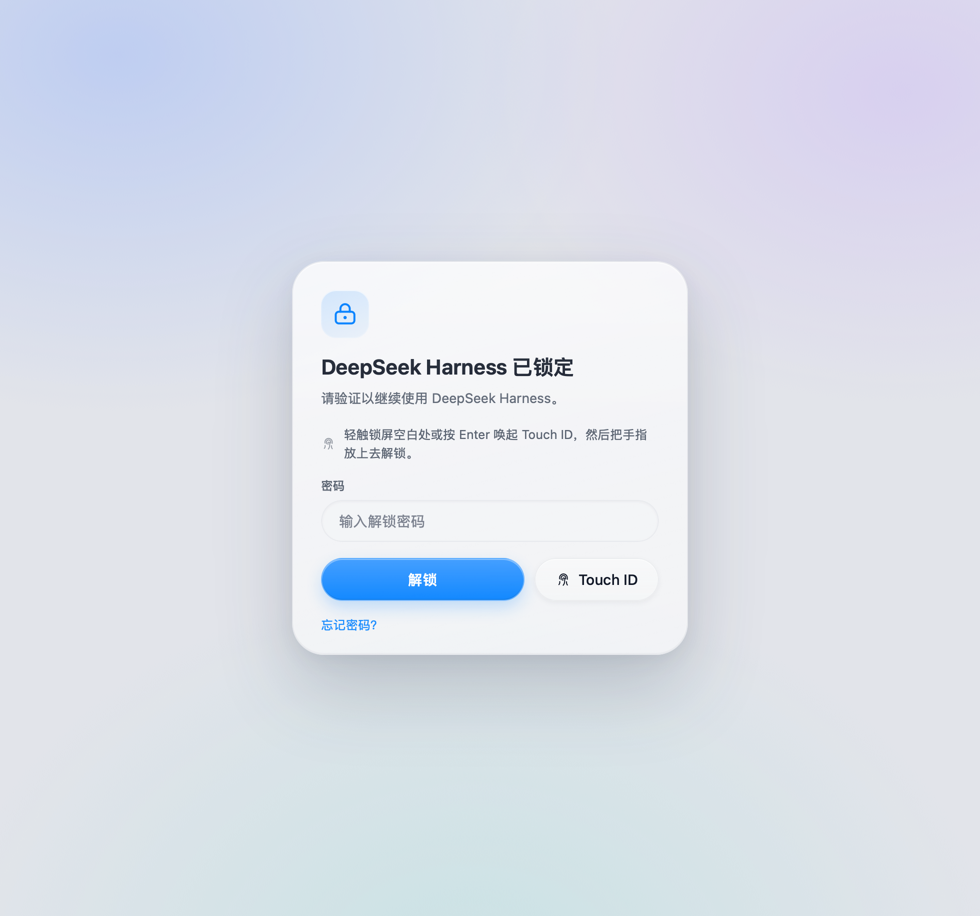
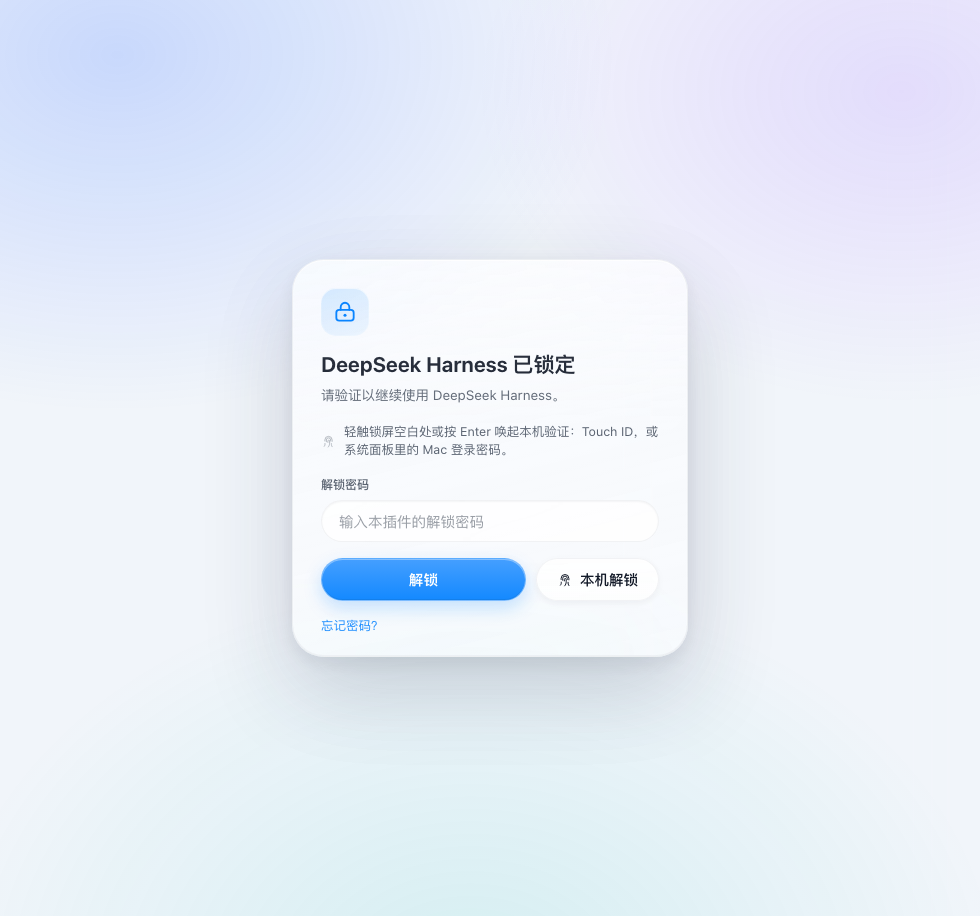
dsh-lock 0.1.7：本机指纹/密码解锁的文案与动画标题修正（显示内容 bug）
- 本机验证走 macOS 系统面板（deviceOwnerAuthentication），可能是 Touch ID 也可能是
  Mac 登录密码回退；插件无法区分，成功动画不再写「指纹验证通过」
- 成功动画：本机 →「本机解锁成功」+ 指纹/Mac 登录密码说明；插件密码 →「解锁密码通过」
- 解锁页：按钮改「本机解锁」，提示写明 Touch ID 或 Mac 登录密码；密码框区分「解锁密码」
- 设置页：「本机解锁」「修改解锁密码」与开关说明同步
- 面板 reason 与后端错误文案同步；README / 预览图更新；测试补充断言

diff --git a/client.js b/client.js
@@ -273,8 +273,12 @@ window.__ModuleLoader__.load({
     //#region unlock animations
 
     /**
-     * The brief success animation shown after a password or a Touch ID unlock,
-     * before the gate fades away.
+     * The brief success animation shown after the plugin password or a local
+     * device unlock, before the gate fades away.
+     *
+     * `biometric` is the local-authentication path: macOS decides inside the
+     * system sheet whether that was Touch ID or the Mac login password, so the
+     * copy must not claim it was a fingerprint — it says 本机解锁.
      * @param {object} props - `{ method: 'password'|'biometric' }`.
      */
     function SuccessView(props) {
@@ -294,8 +298,10 @@ window.__ModuleLoader__.load({
           h('svg', { key: 'check', className: 'dshl-successCheck', viewBox: '0 0 24 24', 'aria-hidden': 'true' },
             h('path', { d: 'M6.4 12.4l3.5 3.5 7.7-8.3' })),
         ]),
-        h('div', { key: 'title', className: 'dshl-successTitle' }, biometric ? '指纹验证通过' : '密码验证通过'),
-        h('div', { key: 'hint', className: 'dshl-successHint' }, '正在进入…'),
+        h('div', { key: 'title', className: 'dshl-successTitle' }, biometric ? '本机解锁成功' : '解锁密码通过'),
+        h('div', { key: 'hint', className: 'dshl-successHint' }, biometric
+          ? '已通过本机指纹或 Mac 登录密码验证，正在进入…'
+          : '正在进入…'),
       ])
     }
 
@@ -381,8 +387,8 @@ window.__ModuleLoader__.load({
           },
         }),
         props.status !== null && props.status.biometricAvailable === true
-          ? h('p', { key: 'bio', className: 'dshl-footnote dshl-footnoteTight' }, '检测到 Touch ID：设置完成后，轻触锁屏空白处或按 Enter 即可唤起系统验证（可在设置中关闭）。')
-          : h('p', { key: 'bio', className: 'dshl-footnote dshl-footnoteTight' }, '此 Mac 未检测到可用 Touch ID，请使用密码解锁。'),
+          ? h('p', { key: 'bio', className: 'dshl-footnote dshl-footnoteTight' }, '检测到本机指纹：设置完成后，轻触锁屏空白处或按 Enter 可唤起系统验证（Touch ID 或 Mac 登录密码，可在设置中关闭）。')
+          : h('p', { key: 'bio', className: 'dshl-footnote dshl-footnoteTight' }, '此 Mac 未检测到可用 Touch ID，请使用上面的解锁密码。'),
         h('button', {
           key: 'submit',
           type: 'button',
@@ -393,7 +399,7 @@ window.__ModuleLoader__.load({
       ])
     }
 
-    /** Password / Touch ID unlock. */
+    /** Plugin password / local-device unlock. */
     function UnlockForm(props) {
       const status = props.status
       const biometricReady = status !== null && status.biometricEnabled === true && status.biometricAvailable === true
@@ -402,17 +408,17 @@ window.__ModuleLoader__.load({
           ? h('p', { key: 'autoHint', className: 'dshl-autoHint' }, [
             h(FingerprintGlyph, { key: 'icon', size: 15 }),
             h('span', { key: 'text' }, props.biometricBusy === true
-              ? 'Touch ID 已唤起，把手指放上去即可解锁…'
-              : '轻触锁屏空白处或按 Enter 唤起 Touch ID，然后把手指放上去解锁。'),
+              ? '已唤起本机验证：用 Touch ID，或在系统面板里输入 Mac 登录密码…'
+              : '轻触锁屏空白处或按 Enter 唤起本机验证：Touch ID，或系统面板里的 Mac 登录密码。'),
           ])
           : null,
         h(PasswordField, {
           key: 'password',
-          label: '密码',
+          label: '解锁密码',
           value: props.password,
           autoFocus: true,
           autoComplete: 'current-password',
-          placeholder: '输入解锁密码',
+          placeholder: '输入本插件的解锁密码',
           onChange: props.onPassword,
           onKeyDown: (event) => {
             if (event.key === 'Enter') props.onSubmit()
@@ -433,12 +439,12 @@ window.__ModuleLoader__.load({
               className: 'dshl-secondary',
               disabled: props.busy === true || props.biometricBusy === true,
               onClick: props.onBiometric,
-            }, [h(FingerprintGlyph, { key: 'icon' }), props.biometricBusy === true ? '等待验证…' : 'Touch ID'])
+            }, [h(FingerprintGlyph, { key: 'icon' }), props.biometricBusy === true ? '等待验证…' : '本机解锁'])
             : null,
         ]),
         biometricReady
           ? null
-          : h('p', { key: 'biohint', className: 'dshl-footnote' }, '可在 设置 → 安全锁定 中启用 Touch ID。'),
+          : h('p', { key: 'biohint', className: 'dshl-footnote' }, '可在 设置 → 安全锁定 中启用本机解锁（Touch ID / Mac 登录密码）。'),
         h('button', {
           key: 'helpToggle',
           type: 'button',
@@ -718,9 +724,9 @@ window.__ModuleLoader__.load({
             h('span', { key: 'v2' }, status === null ? '读取中…' : status.locked ? '已锁定' : '已解锁'),
             h('span', { key: 'k3', className: 'dshl-key' }, '上次验证'),
             h('span', { key: 'v3' }, status === null ? '—' : formatTime(status.lastUnlockAt)),
-            h('span', { key: 'k4', className: 'dshl-key' }, '密码'),
+            h('span', { key: 'k4', className: 'dshl-key' }, '解锁密码'),
             h('span', { key: 'v4' }, status !== null && status.passwordIsDefault ? '默认密码 4396（建议修改）' : '已自定义'),
-            h('span', { key: 'k5', className: 'dshl-key' }, 'Touch ID'),
+            h('span', { key: 'k5', className: 'dshl-key' }, '本机解锁'),
             h('span', { key: 'v5' }, status === null
               ? '读取中…'
               : unavailable
@@ -738,7 +744,7 @@ window.__ModuleLoader__.load({
         ]),
 
         h('section', { key: 'password', className: 'dshl-section' }, [
-          h('h2', { key: 'title', className: 'dshl-sectionTitle' }, '修改密码'),
+          h('h2', { key: 'title', className: 'dshl-sectionTitle' }, '修改解锁密码'),
           h(PasswordField, {
             key: 'current',
             label: '当前密码',
@@ -772,7 +778,7 @@ window.__ModuleLoader__.load({
         ]),
 
         h('section', { key: 'biometric', className: 'dshl-section' }, [
-          h('h2', { key: 'title', className: 'dshl-sectionTitle' }, 'Touch ID'),
+          h('h2', { key: 'title', className: 'dshl-sectionTitle' }, '本机解锁'),
           h('label', { key: 'toggle', className: 'dshl-check' }, [
             h('input', {
               key: 'input',
@@ -783,7 +789,7 @@ window.__ModuleLoader__.load({
             }),
             h('span', { key: 'text' }, unavailable
               ? '此 Mac 不可用（需要支持并已录入 Touch ID）'
-              : '允许使用 Touch ID 解锁（认证失败时可回退到系统登录密码）'),
+              : '允许使用本机指纹解锁；系统面板也接受 Mac 登录密码（不是上面的解锁密码）'),
           ]),
         ]),
 

diff --git a/index.js b/index.js
@@ -472,7 +472,7 @@ export class LockStore {
   setBiometric(enabled) {
     if (!this.isUnlocked()) throw new LockError(401, '当前会话未解锁')
     if (enabled === true && this.biometricAvailable !== true) {
-      throw new LockError(400, '当前 Mac 不支持 Touch ID 或尚未录入指纹')
+      throw new LockError(400, '当前 Mac 不支持本机指纹（Touch ID）或尚未录入指纹')
     }
     this.state.biometric = enabled === true
     this.state.updatedAt = this.now()
@@ -670,14 +670,14 @@ export function apply(ctx) {
     handler: mutation('POST', async (req, res) => {
       const available = await store.ensureBiometric()
       if (!store.isConfigured()) throw new LockError(409, '尚未设置解锁方式')
-      if (!store.biometricEnabled()) throw new LockError(400, '未启用 Touch ID')
-      if (!available) throw new LockError(400, '当前 Mac 不支持 Touch ID 或尚未录入指纹')
+      if (!store.biometricEnabled()) throw new LockError(400, '未启用本机解锁')
+      if (!available) throw new LockError(400, '当前 Mac 不支持本机指纹（Touch ID）或尚未录入指纹')
       if (store.biometricInFlight) throw new LockError(429, '正在等待系统验证')
       const waitMs = reservePrompt()
       if (waitMs > 0) throw new LockError(429, '请稍后再试', { retryAfterMs: waitMs })
       store.biometricInFlight = true
       try {
-        const result = await runHelper(['--auth', '解锁 DeepSeek Harness'], 120_000)
+        const result = await runHelper(['--auth', '解锁 DeepSeek Harness（本机指纹 / Mac 登录密码）'], 120_000)
         if (result.code !== 0) {
           const message = result.code === 2
             ? '系统认证不可用'
@@ -722,7 +722,7 @@ export function apply(ctx) {
     handler: mutation('POST', async (req, res) => {
       const available = await store.ensureBiometric()
       const body = await readJson(req)
-      if (body.enabled === true && !available) throw new LockError(400, '当前 Mac 不支持 Touch ID 或尚未录入指纹')
+      if (body.enabled === true && !available) throw new LockError(400, '当前 Mac 不支持本机指纹（Touch ID）或尚未录入指纹')
       store.setBiometric(body.enabled === true)
       sendJson(res, 200, { ok: true, status: status() })
     }),

diff --git a/README.md b/README.md
@@ -1,9 +1,9 @@
-# dsh-lock · DSH 锁屏 / Touch ID 验证
+# dsh-lock · DSH 锁屏 / 本机指纹·密码解锁
 
 [![test](https://github.com/SeyanaA/dsh-lock/actions/workflows/test.yml/badge.svg)](https://github.com/SeyanaA/dsh-lock/actions/workflows/test.yml)
 [![release](https://img.shields.io/github/v/release/SeyanaA/dsh-lock)](https://github.com/SeyanaA/dsh-lock/releases)
 
-> 首个公开版本 **v0.1.6**（macOS 26 Liquid Glass 风格）。
+> 最新版本 **v0.1.7**（macOS 26 Liquid Glass 风格）。
 > 下载：[Releases](https://github.com/SeyanaA/dsh-lock/releases) · 预览：[`docs/preview-lock.png`](./docs/preview-lock.png)
 
 ![锁屏预览](./docs/preview-lock.png)
@@ -11,42 +11,46 @@
 给 [DeepSeek Harness](https://github.com/deepseek-ai) Desktop 用的**本地锁屏插件**（macOS，
 建议 MacBook 且支持 Touch ID）：
 
-- **每次启动 DSH**：需要重新验证（密码或 Touch ID）；
+- **每次启动 DSH**：需要重新验证（插件解锁密码，或**本机指纹 / Mac 登录密码**）；
 - **48 小时未验证**：下一次打开 / 状态轮询时重新锁定；
 - **首次访问**：强制设置解锁密码（**至少 4 位，内容不限**，任何字符都可以）；
-- **不自动弹指纹**：遵守 macOS 安全惯例，锁屏出现时**不会主动弹出**系统验证面板；你只要
-  **轻触锁屏空白处 / 按一次 Enter / 点一下 Touch ID**，系统面板才会被唤起，然后把手指放上去
-  即解锁（系统面板也允许回退到 Mac 登录密码）；
-  > 说明：macOS 不向第三方应用开放“后台监听 Touch ID 传感器”的能力，指纹验证必须通过系统
-  > 面板完成，这是 Apple 的安全设计；所以无法做到“手指一放就检测、完全零交互”。
+- **本机指纹 / 密码解锁**：点「本机解锁」或轻触锁屏空白处 / 按一次 Enter 后，由 **macOS
+  系统面板**完成验证——可以放手指用 **Touch ID**，也可以直接输入 **Mac 登录密码**回退。
+  > 这是**本机（macOS 账户）验证**，不是插件自己的解锁密码；两者互相独立。因为系统面板里
+  > 究竟用了指纹还是 Mac 密码，插件无法得知，所以按钮、成功动画与提示统一标注为
+  > **「本机解锁」**，不会声称「指纹验证通过」。
+  > 另外 macOS 不向第三方应用开放“后台监听 Touch ID 传感器”的能力，验证必须经系统面板
+  > 完成，这是 Apple 的安全设计；所以无法做到“手指一放就检测、完全零交互”。
 - **液态玻璃（Liquid Glass）视觉**：按 Apple HIG “Materials”与 macOS 26 控制层规范重做——
   胶囊形输入框与按钮（参考 macOS 搜索框）、半透明玻璃材质 + 背景模糊/饱和度增强、
   细高光边与柔和内阴影、仅主操作使用强调色（系统蓝 #0A84FF）、深浅色主题自适应；
   预览图见 [`docs/preview-lock.png`](./docs/preview-lock.png)。
-- **解锁动画**：指纹解锁 = 绿色柔光 + 指纹淡出 + 对勾描边动画；密码解锁 = 蓝色柔光 + 锁扣
-  弹开 + 对勾描边动画，随后玻璃面板淡出；
+- **解锁动画**：**本机解锁**（指纹或 Mac 登录密码）= 绿色柔光 + 指纹淡出 + 对勾描边，
+  文案为「本机解锁成功」；**插件解锁密码** = 蓝色柔光 + 锁扣弹开 + 对勾描边，文案为
+  「解锁密码通过」；随后玻璃面板淡出；
 - **忘记密码**：终端执行一条命令，密码恢复为默认密码 **4396**，重新打开 DSH 输入 4396
   解锁，再到设置里修改；
 - **右上角一键锁定**：会话头部右侧工具区新增锁形按钮，点击立即锁定并呼出锁屏；
-- **配置入口**：`设置 → 安全锁定`（修改密码、开关 Touch ID、立即锁定、查看重置命令）。
+- **配置入口**：`设置 → 安全锁定`（修改解锁密码、开关本机解锁、立即锁定、查看重置命令）。
 
 数据全部在本机：密码只以 scrypt 哈希形式保存在 `~/.dsh/dsh-lock/state.json`（权限 600），
 不读取任何会话内容，不发起网络请求。
 
 > A local lock screen for DeepSeek Harness Desktop on macOS: re-authenticate after every
-> restart or 48 hours, with Touch ID via LocalAuthentication and a 4+ character password
-> fallback. Settings live under Settings → 安全锁定.
+> restart or 48 hours with a 4+ character plugin password or a **local device unlock**
+> (Touch ID *or* the Mac login password, via LocalAuthentication — labelled 本机解锁 in the
+> UI). Settings live under Settings → 安全锁定.
 
 ---
 
 ## 环境要求
 
-- **macOS**（在 macOS 27 / Apple Silicon 上验证），MacBook 且已录入 Touch ID 才能使用指纹解锁；
-  没有 Touch ID 也可以只用密码；
+- **macOS**（在 macOS 27 / Apple Silicon 上验证）；录入 Touch ID 的 MacBook 可以指纹解锁，
+  系统面板也接受 Mac 登录密码；没有 Touch ID 的 Mac 可以只用插件解锁密码；
 - **DeepSeek Harness Desktop ≥ 0.2.0-rc.1**；
-- Touch ID 由插件自带的原生小助手（`bin/dsh-auth-helper`，Swift + LocalAuthentication）实现，
-  预编译为 arm64；Intel Mac 可执行 `scripts/build-helper.sh` 重新编译（需要 Xcode
-  Command Line Tools）。
+- 本机解锁由插件自带的原生小助手（`bin/dsh-auth-helper`，Swift + LocalAuthentication，
+  `deviceOwnerAuthentication` 策略）实现，预编译为 arm64；Intel Mac 可执行
+  `scripts/build-helper.sh` 重新编译（需要 Xcode Command Line Tools）。
 
 ## 安装
 
@@ -78,18 +82,19 @@
 
 ### 首次访问
 
-安装并重新打开 DSH 后，界面会被锁屏覆盖：**设置解锁密码**（至少 4 位，内容不限）。
-如果这台 Mac 支持并已录入 Touch ID，插件会**自动启用**（可在 设置 → 安全锁定 中关闭），
-设置完成后即解锁。
+安装并重新打开 DSH 后，界面会被锁屏覆盖：**设置解锁密码**（至少 4 位，内容不限，这是
+插件自己的解锁密码，与 Mac 登录密码无关）。如果这台 Mac 支持并已录入 Touch ID，插件会
+**自动启用本机解锁**（可在 设置 → 安全锁定 中关闭），设置完成后即解锁。
 
 ### 日常解锁
 
 锁屏出现后（不会自己弹任何窗口）：
 
-- **轻触锁屏空白处**，或**按一次 Enter**，或点一下 **Touch ID** → 系统 Touch ID 面板出现，
-  把手指放上去即解锁（无需再点按钮）；
-- 也可以直接输入密码 + 回车解锁；
-- 如果取消了指纹面板，可以再次轻触/按 Enter/点 Touch ID 重新唤起，或改用密码。
+- 轻触锁屏空白处，或按一次 Enter，或点一下 **「本机解锁」** → macOS 系统验证面板出现；
+  把手指放上去用 **Touch ID** 即解锁，也可以在面板里选择输入 **Mac 登录密码**（这**不是**
+  插件的解锁密码）；
+- 也可以直接在输入框里填**插件解锁密码** + 回车解锁；
+- 如果取消了系统面板，可以再次轻触 / 按 Enter / 点「本机解锁」重新唤起，或改用解锁密码。
 
 锁定触发条件：
 
@@ -102,7 +107,8 @@
 ### 一键锁定
 
 DSH 会话头部右上角有一个锁形按钮（在模型/搜索等工具的最右侧）：点击它会立即锁定，
-锁屏随即覆盖界面，并自动唤起 Touch ID。也可以从 `设置 → 安全锁定 → 立即锁定` 锁定。
+锁屏随即覆盖界面；随后轻触锁屏 / 按 Enter / 点「本机解锁」唤起系统验证。也可以从
+`设置 → 安全锁定 → 立即锁定` 锁定。
 
 ### 忘记密码（强制恢复默认密码 4396）
 
@@ -124,9 +130,9 @@ DSH 会话头部右上角有一个锁形按钮（在模型/搜索等工具的最
 
 `设置 → 安全锁定`：
 
-- 查看锁定规则、当前会话状态、上次验证时间、密码是否为默认密码、Touch ID 状态；
-- 修改密码（当前密码 + 新密码 ≥ 4 位）；
-- 开关 Touch ID（需要当前会话已解锁，且本机可用）；
+- 查看锁定规则、当前会话状态、上次验证时间、解锁密码是否为默认密码、本机解锁状态；
+- 修改解锁密码（当前密码 + 新密码 ≥ 4 位）；
+- 开关本机解锁（指纹 / Mac 登录密码；需要当前会话已解锁，且本机可用）；
 - **立即锁定**；
 - **忘记密码** 的重置命令。
 
@@ -145,16 +151,19 @@ $ ~/.dsh/local-plugins/dsh-lock/bin/reset-password
 - **一直显示“正在读取锁定状态”**：说明插件宿主没有加载。重启 DSH；若仍不行，让 Agent
   移除 `dsh-lock` bundle（或手动从 profile 删除）后重启。
 - **被锁住但暂时不想设置密码**：在终端执行重置命令（见上），然后输入默认密码 **4396**。
-- **Touch ID 点了没反应**：确认本机已录入指纹、系统设置里“使用触控 ID 解锁”已开启；
-  到 `设置 → 安全锁定` 确认 Touch ID 为“已启用”。系统面板本身也允许回退到 Mac 登录密码。
+- **「本机解锁」点了没反应**：确认本机已录入指纹、系统设置里“使用触控 ID 解锁”已开启；
+  到 `设置 → 安全锁定` 确认「本机解锁」为“已启用”。系统面板本身也允许回退到 Mac 登录密码
+  （与插件解锁密码不同）。
 
 ## 安全设计（含安全审核要点）
 
 **入口与认证**
 
 - 锁屏出现时**不主动弹出**任何系统验证窗口，只在用户明确手势后调用 `LocalAuthentication`；
-- 指纹验证完全由 macOS 系统面板执行，插件不接触、不存储指纹数据；
-- 系统面板允许回退到 Mac 登录密码（`deviceOwnerAuthentication` 语义，与系统一致）；
+- 本机验证（指纹或 Mac 登录密码）完全由 macOS 系统面板执行，插件不接触、不存储任何
+  指纹或密码数据，只收到“成功 / 失败”；
+- 系统面板允许回退到 Mac 登录密码（`deviceOwnerAuthentication` 语义，与系统一致）；因此
+  成功提示统一写「本机解锁成功」，不会误报为指纹验证；
 - 密码 → scrypt（随机盐，Node `crypto`）+ 常数时间比较（`timingSafeEqual`），只保存哈希；
 - 密码长度下限 4 位、上限 256 位；连续错误 5 次后进入 30 秒起、逐级翻倍的冷却；
 - 状态文件权限 `0600`，仅存哈希/时间戳，不含密码与会话内容。
@@ -165,7 +174,7 @@ $ ~/.dsh/local-plugins/dsh-lock/bin/reset-password
   `content-type: application/json` + 客户端标记头 `x-dsh-lock-client: 1` +
   同源 `Origin`（非本 DSH 源直接 403）+ 拒绝 `Sec-Fetch-Site: cross-site`；
   这样普通网页 / DNS-rebinding 无法锁定界面或刷指纹弹窗；
-- Touch ID 唤起有节流：1.5 秒内最多一次、每分钟最多 5 次，避免弹窗轰炸；
+- 本机解锁唤起有节流：1.5 秒内最多一次、每分钟最多 5 次，避免弹窗轰炸；
 - 响应带 `Cache-Control: no-store`、`X-Content-Type-Options: nosniff`；
 - 请求体限制 16KB。
 
@@ -193,7 +202,7 @@ node test/run.mjs
 - `test/client-render.mjs`：mock ModuleLoader/React 下验证 `shell.overlay` 与
   `settings.section` 注册、锁屏各模式、设置页内容与上报。
 
-重新编译 Touch ID 小助手（需要 Xcode Command Line Tools）：
+重新编译本机验证小助手（需要 Xcode Command Line Tools）：
 
 ```bash
 ./scripts/build-helper.sh

diff --git a/CHANGELOG.md b/CHANGELOG.md
@@ -1,5 +1,31 @@
 # Changelog
 
+## 0.1.7 — 2026-10-26
+
+修复**显示内容 bug**：本机验证成功后，界面把结果说成「指纹验证通过」。
+
+### 修复
+
+- 本机验证走的是 macOS 系统面板（`deviceOwnerAuthentication`），面板里既可以是 **Touch ID**，
+  也可以是 **Mac 登录密码**回退；插件只能拿到“成功 / 失败”，无法知道用了哪一种。因此：
+  - 成功动画标题由「指纹验证通过」改为 **「本机解锁成功」**，副标题写明
+    「已通过本机指纹或 Mac 登录密码验证」——不再把可能来自 Mac 密码的验证误报成指纹；
+  - 插件解锁密码的成功标题由「密码验证通过」改为 **「解锁密码通过」**，与 Mac 登录密码区分。
+- 解锁界面文案统一标明「本机解锁」：按钮由「Touch ID」改为 **「本机解锁」**；提示写明
+  可在系统面板里用 Touch ID **或 Mac 登录密码**；密码框标签改为「解锁密码」，占位符改为
+  「输入本插件的解锁密码」；未启用时的提示改为「启用本机解锁（Touch ID / Mac 登录密码）」。
+- 设置页：状态行与分节标题改为「本机解锁」「修改解锁密码」；开关说明改为
+  「允许使用本机指纹解锁；系统面板也接受 Mac 登录密码（不是上面的解锁密码）」。
+- 系统验证面板的说明文字改为「解锁 DeepSeek Harness（本机指纹 / Mac 登录密码）」；
+  后端错误文案同步为「未启用本机解锁」「当前 Mac 不支持本机指纹（Touch ID）或尚未录入指纹」。
+- README 与 `docs/preview-lock.png` 同步更新；冒烟测试新增断言：成功动画**不得**出现
+  「指纹验证通过」、必须出现「本机解锁成功 / Mac 登录密码」，解锁页必须同时区分
+  「本机解锁」与「解锁密码」。
+
+### 兼容性
+
+- 无状态/接口变化，升级后直接生效；已设置的解锁密码、指纹开关与锁定状态都保留。
+
 ## 0.1.6 — 2026-10-26
 
 首个公开版本（macOS）。
